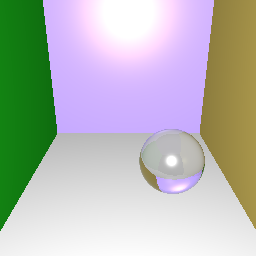
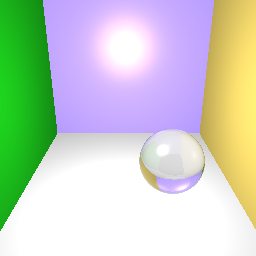
fix display of photon map

diff --git a/cs488/A4/PhotonMap.cpp b/cs488/A4/PhotonMap.cpp
@@ -19,15 +19,19 @@ using namespace glm;
 #define GLOSSY 3
 #define DIFFUSE 1
 
-static const int NUM_INC_PROJ_MAP = 500;
+static const int NUM_INC_PROJ_MAP = 100;
 static const int REFLECT_MAX_TIMES = 3;
 static const float INC_PHI = PI / NUM_INC_PROJ_MAP;
 static const float INC_THETA = 2.0f * PI / NUM_INC_PROJ_MAP;
 
 
 
-PhotonMap::PhotonMap(const std::list<Light *> & lights, SceneNode * root):
+PhotonMap::PhotonMap(const std::list<Light *> & lights, const vec3 & eye,
+	const vec3 & view_dir, double fov, SceneNode * root):
 lights(lights),
+eye(eye),
+view_dir(view_dir),
+fov(fov),
 root(root){
 	srand(time(NULL));
 };
@@ -213,26 +217,26 @@ void PhotonMap::SurfaceInteraction(
 
 void PhotonMap::renderPhotonMap() {
   Image image(256,256);
-  vec3 eye = vec3(0,0,0);
-  float fov = 180.0f;
   float size = 256.0f;
   float half_fov = (fov/2.0f) * PI/ 180.0f;
   float half_cos_fov = cos(half_fov);
   float half_sin_fov = sin(half_fov);
+	vec3 to_photon;
   int i,j;
   cout << "map size: " << projection_map.size() << endl;
   int count = 0;
 	for (Photon photon : photon_map) {
-		float y_cos = glm::dot(glm::normalize(vec3(0,photon.pos.y, photon.pos.z)), vec3(0,0,-1));
-		float x_cos = glm::dot(glm::normalize(vec3(photon.pos.x, 0,photon.pos.z)), vec3(0,0,-1));
+		to_photon = photon.pos - eye;
+		float y_cos = glm::dot(glm::normalize(vec3(0,to_photon.y, to_photon.z)), view_dir);
+		float x_cos = glm::dot(glm::normalize(vec3(to_photon.x, 0,to_photon.z)), view_dir);
 		// cout << "y_cos: " << y_cos << ",x_cos: " << x_cos << endl;
 		if (y_cos > half_cos_fov && x_cos > half_cos_fov) {
 			float y_sin = sqrt(1-pow(y_cos, 2.0));
 			float x_sin = sqrt(1-pow(x_cos, 2.0));
-			if (photon.pos.y < 0) {
+			if (to_photon.y < 0) {
 				y_sin = -y_sin;
 			}
-			if (photon.pos.x < 0) {
+			if (to_photon.x < 0) {
 				x_sin = -x_sin;
 			}
 			// cout << "y_sin: " << y_sin << ",x_sin: " << x_sin << endl;
@@ -245,26 +249,26 @@ void PhotonMap::renderPhotonMap() {
 			count ++;
 		}
 	}
-  cout << "count: " << count << endl;
+  // cout << "count: " << count << endl;
   image.savePng( "photonmap.png" );
 }
 
 void PhotonMap::renderProjectionMap() {
   Image image(256,256);
-  vec3 eye = vec3(0,0,0);
-  float fov = 120.0f;
   float size = 256.0f;
   float half_fov = (fov/2.0f) * PI/ 180.0f;
   float half_cos_fov = cos(half_fov);
   float half_sin_fov = sin(half_fov);
 	float half_tan_fov = tan(half_fov);
+	vec3 to_cell;
   int i,j;
   int count = 0;
 	int light_index = 0;
 	for (Light *light : lights) {
 		for (Cell cell : projection_map[light_index]) {
-			float y_cos = glm::dot(glm::normalize(vec3(0,cell.pos.y, cell.pos.z)), vec3(0,0,-1));
-			float x_cos = glm::dot(glm::normalize(vec3(cell.pos.x, 0,cell.pos.z)), vec3(0,0,-1));
+			to_cell = cell.pos - eye;
+			float y_cos = glm::dot(glm::normalize(vec3(0,to_cell.y, to_cell.z)), view_dir);
+			float x_cos = glm::dot(glm::normalize(vec3(to_cell.x, 0,to_cell.z)), view_dir);
 			float y_ang = acos(y_cos);
 			float x_ang = acos(x_cos);
 			// cout << "y_cos: " << y_cos << ",x_cos: " << x_cos << endl;
@@ -273,10 +277,10 @@ void PhotonMap::renderProjectionMap() {
 				float x_tan = tan(x_ang);
 				// float y_sin = sqrt(1-pow(y_cos, 2.0));
 				// float x_sin = sqrt(1-pow(x_cos, 2.0));
-				if (cell.pos.y < 0) {
+				if (to_cell.y < 0) {
 					y_tan = -y_tan;
 				}
-				if (cell.pos.x < 0) {
+				if (to_cell.x < 0) {
 					x_tan = -x_tan;
 				}
 				// cout << "y_sin: " << y_sin << ",x_sin: " << x_sin << endl;
@@ -284,7 +288,7 @@ void PhotonMap::renderProjectionMap() {
 				// cout << "y_tan: " << y_tan << endl;
 				i = (int)((x_tan / half_tan_fov) * size / 2.0 + size / 2.0);
 				j = (int)(-(y_tan / half_tan_fov) * size / 2.0 + size / 2.0);
-				cout << "i: " << i << ",j: " << j << endl;
+				// cout << "i: " << i << ",j: " << j << endl;
 				for ( int k = 0; k < 3; k++) {
 					image((uint)i, (uint)j, k) = 1.0;
 				}

diff --git a/cs488/A4/A4.cpp b/cs488/A4/A4.cpp
@@ -24,7 +24,7 @@ static unsigned char *bg_data;
 static const bool ADAPTIVE_SAMPLING = false;
 static const bool SOFT_SHADOW = false;
 static const bool FRESNEL = true;
-static const bool PHOTON_MAP = true;
+static const bool PHOTON_MAP = false;
 static const bool DEPTH_OF_FIELD = false;
 static const double LIGHT_RADIUS = 0.05;
 static const double GLOSSY_REFL_FRACTION = 0.4;
@@ -60,7 +60,7 @@ up(up),
 fovy(fovy),
 ambient(ambient),
 lights(lights),
-photon_map(PhotonMap(lights, root)) {
+photon_map(PhotonMap(lights, eye, view, fovy, root)) {
 	// load bg image
 	bg_data = stbi_load(BG_FILE_NAME, &bg_x, &bg_y, &channels, 0);
 	pixsize_over_d = 2.0 * tan(fovy*PI/(2.0*180.0)) / image.height();
@@ -96,8 +96,8 @@ void A4::A4_Render(
 	// create photon map
 	if (PHOTON_MAP) {
 		photon_map.createProjMap();
-		// photon_map.castPhotons();
-		// photon_map.renderPhotonMap();
+		photon_map.castPhotons();
+		photon_map.renderPhotonMap();
 		photon_map.renderProjectionMap();
 		return;
 	}

diff --git a/cs488/A4/PhotonMap.hpp b/cs488/A4/PhotonMap.hpp
@@ -29,7 +29,8 @@ class PhotonMap {
 public:
   virtual ~PhotonMap(){};
 
-	PhotonMap(const std::list<Light *> & lights, SceneNode * root);
+	PhotonMap(const std::list<Light *> & lights, const vec3 & eye,
+    const vec3 & view_dir, double fov, SceneNode * root);
   void createProjMap();
   void castPhotons();
   void renderPhotonMap();
@@ -40,6 +41,9 @@ private:
   std::vector<Photon> photon_map;
   SceneNode * root;
   const std::list<Light *> & lights;
+  const vec3 & eye;
+  const vec3 & view_dir;
+  double fov;
 
   void castPrimaryRay( SceneNode *root, const glm::vec3 & start, const glm::vec3 & ray_dir,
     Intersection *isect, mat4 T, mat4 T_n, GeometryNode ** obj);
